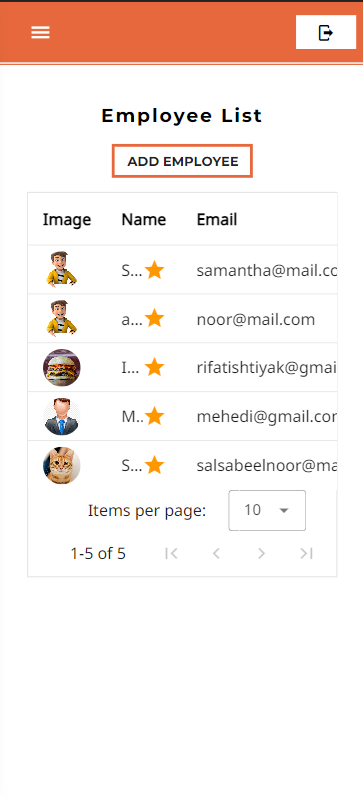
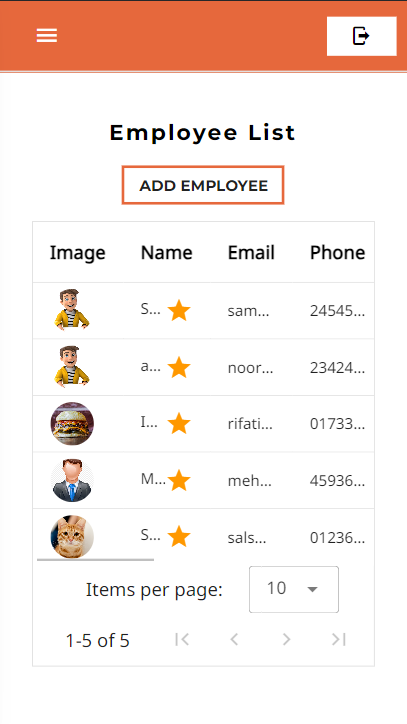
readme updated

diff --git a/src/Views/EmployeeList.vue b/src/Views/EmployeeList.vue
@@ -25,15 +25,6 @@
           item-value="name"
           @update:options="fetchEmployeeList"
         >
-          <!-- <template v-slot:header="{ props: { headers } }">
-            <thead>
-              <tr>
-                <th v-for="(h, i) in headers" :key="i" :class="h.class">
-                  <span>{{ h.title }}</span>
-                </th>
-              </tr>
-            </thead>
-          </template> -->
           <template v-slot:item.action="{ item }">
             <div class="d-flex">
               <v-btn
@@ -399,6 +390,7 @@ h4 {
   white-space: nowrap;
   overflow: hidden;
   text-overflow: ellipsis;
+  font-size: 14px;
 }
 .parent-truncate {
   display: grid;
